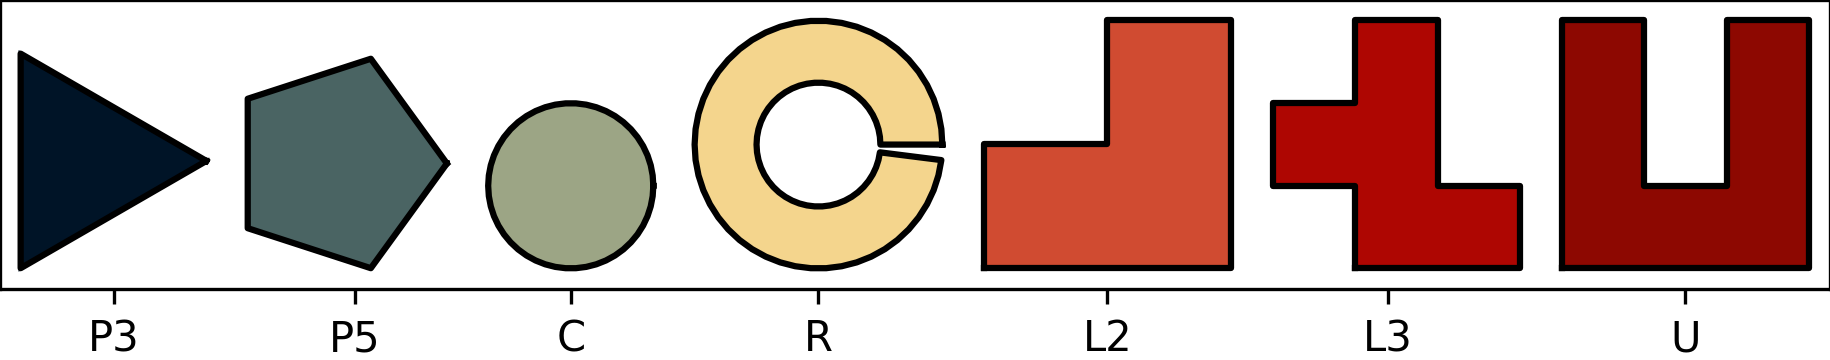
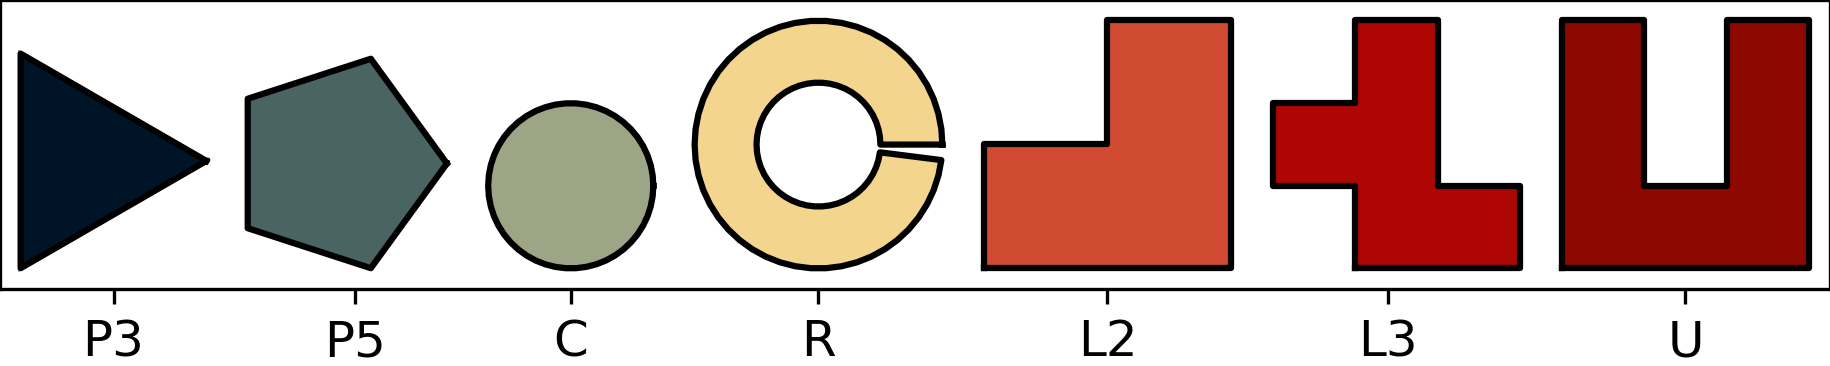
minor

diff --git a/Image_shapes.py b/Image_shapes.py
@@ -54,7 +54,8 @@ if __name__ == '__main__':
         #set y axis False
         plt.gca().axes.get_yaxis().set_visible(False)
         plt.gca().set_aspect('equal', adjustable='box')
-        
+        #ticks font size
+        plt.xticks(fontsize=12)
         plt.tight_layout()
         path_image = f'__Images/shapes_group_{n}.png'
         plt.savefig(path_image, dpi=300, bbox_inches='tight', pad_inches=0, transparent=False)
